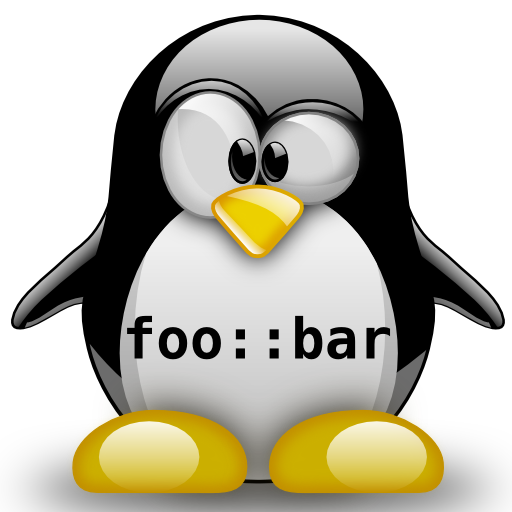
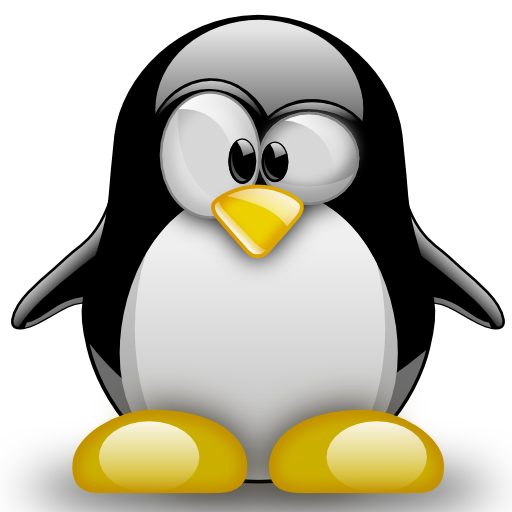
Changed title and added monospace font.

Changed region(s): [[0.25, 0.5938, 0.5, 0.7188], [0.5312, 0.5938, 0.7812, 0.7188]]

diff --git a/_includes/_head.html b/_includes/_head.html
@@ -12,5 +12,6 @@
   
   <link rel="stylesheet" href="{{ site.url }}/style.css" />
   <link href='http://fonts.googleapis.com/css?family=Merriweather:400,700' rel='stylesheet' type='text/css'>
+  <link href='http://fonts.googleapis.com/css?family=Inconsolata:400,700' rel='stylesheet' type='text/css'>
 </head>
 <body>

diff --git a/_includes/_header.html b/_includes/_header.html
@@ -1,6 +1,6 @@
 <div class="wrap">
   
 <header class="mb">
-  <h1 class="h2 m-0"><a href="{{site.url}}">{{site.name}}</a></h1>
+  <h1 class="h2 m-0 mono"><a href="{{site.url}}">{{site.name}}</a></h1>
   <p>{{site.description}}</p>
 </header>

diff --git a/style.css b/style.css
@@ -57,6 +57,7 @@ h1 a { color: #333;}
 
 .m-0 { margin-top: 0; margin-bottom: 0; }
 .mb { margin-bottom: 64px; }
+.mono { font-family: 'Inconsolata'; }
 
 .post { margin-bottom: 96px; }
 .post img { max-width: 100%; }

diff --git a/_posts/2014-02-25-Hello-World.md b/_posts/2014-02-25-Hello-World.md
@@ -3,4 +3,4 @@ layout: post
 title: "Hello World"
 ---
 
-The quick brown fox jumps over the lazy dog...    
+The quick brown fox jumps over the lazy dog...
